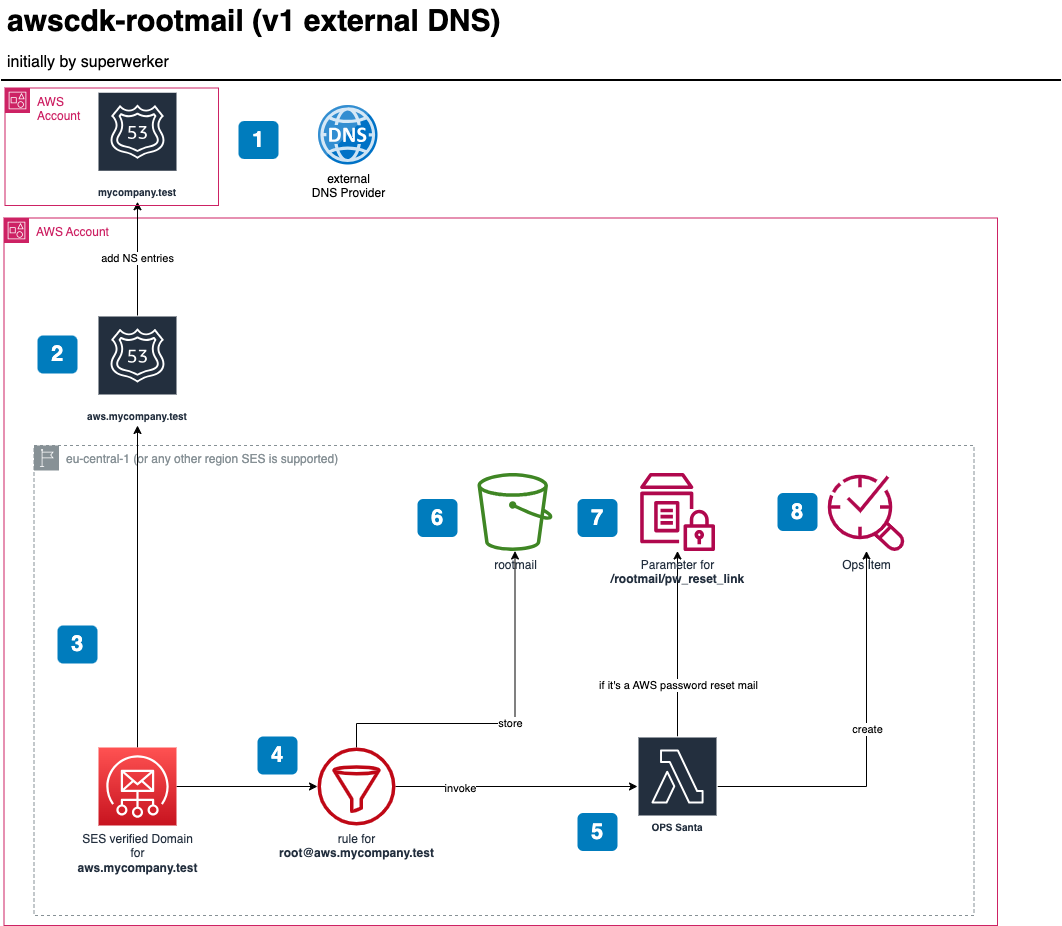
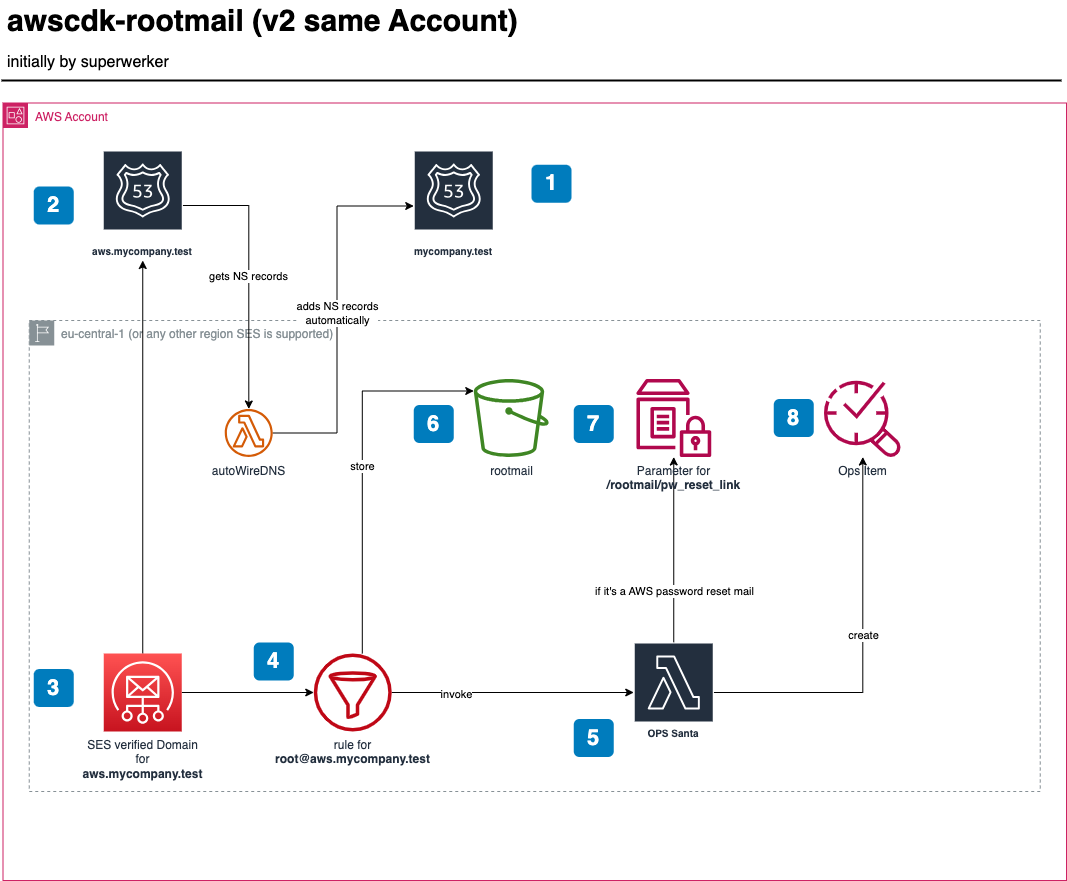
chore: simplify and correct readme

diff --git a/README.md b/README.md
@@ -20,10 +20,21 @@ Each AWS account needs one unique email address (the so-called "AWS account root
 
 Access to these email addresses must be adequately secured since they provide privileged access to AWS accounts, such as account deletion procedures.
 
-This is why you only need 1 mailing list for the AWS Management (formerly *root*) account, we recommend `aws-roots+<uuid>@mycompany.test` (**NOTE:** maximum 64 character are allowed for the whole address). And as you own the domain `mycompany.test` you can add a subdomain, e.g. `aws`, for which all EMails will then be received with this solution within this particular AWS Management account.
+This is why you only need 1 mailing list for the AWS Management (formerly *root*) account, we recommend `aws-roots+<uuid>@mycompany.test` 
+
+> [!NOTE]
+> The maximum 64 character are allowed for the whole address. 
+
+And as you own the domain `mycompany.test` you can add a subdomain, e.g. `aws`, for which all EMails will then be received with this solution within this particular AWS Management account.
 
 ## Prerequisites
-- Administrative access to an AWS account  
+Administrative access to an AWS account and the following tools:
+```sh
+brew install aws-cli node@18 esbuild # on Mac
+```
+
+<details>
+  <summary>Longer listing</summary>
 - Access to a development environment.  It is recommended to use AWS Cloud9 to avoid having to set up the tools needed to deploy the solution.  See [Getting started with AWS Cloud9](https://aws.amazon.com/cloud9/getting-started/).
 - Using Cloud9, all of the following have already been configured for you.  If you choose not to use Cloud9, you will need to install the following.
     - AWS CLI. See [Installing, updating and uninstalling the AWS CLI version 2](https://docs.aws.amazon.com/cli/latest/userguide/install-cliv2.html)
@@ -31,17 +42,18 @@ This is why you only need 1 mailing list for the AWS Management (formerly *root*
     - Node.js version 10.13.0 or later
     - AWS CDK version 2.90.0 or later. For installation instructions see [Getting Started with the AWS CDK](https://docs.aws.amazon.com/cdk/latest/guide/getting_started.html#getting_started_install)
     - Docker version 20.10.x or later **OR** [esbuild](https://esbuild.github.io/)
-
-```sh
-brew install aws-cli node@18 esbuild # on Mac
-```
+</details>
 
 ## Solution design: Version 1 - Domain in the same AWS account
-![rootmail-solution-diagram-v2](docs/img/awscdk-rootmail-v2-min.png)
+![rootmail-solution-diagram-v1](docs/img/awscdk-rootmail-v1-min.png)
 
 1. You own a domain, e.g., `mycompany.test`, registered via `Route53` in the **same** AWS account.
 2. The stack creates a `Route53` public Hosted Zone for the subdomain, e.g., `aws.mycompany.test`. It also automatically adds the TXT and CNAME records for verifying the domain towards SES **and** adds the NS server entries automatically to the main domain `mycompany.test`.
-3. When the subdomain `aws.mycompany.test` is successfully propagated, the stack creates a verified Domain in AWS SES and adds a recipient rule for `root@aws.mycompany.test`. **NOTE:** SES support alias, so mail to `root+random-string@aws.mycompany.test` will also be catched and forwared. On a successfull propagation you will get a mail as follows to the root Email address of the account you are installing the stack
+3. When the subdomain `aws.mycompany.test` is successfully propagated, the stack creates a verified Domain in AWS SES and adds a recipient rule for `root@aws.mycompany.test`. On a successfull propagation you will get a mail as follows to the root Email address of the account you are installing the stack
+
+> [!NOTE]
+> SES support alias, so mail to `root+random-string@aws.mycompany.test` will also be catched and forwared.
+
 ![domain-verification](docs/img/3-domain-verification-min.png)
 1. Now, any mail going to `root+<any-string>@aws.mycompany.test` will be processed by OpsSanta 🎅🏽 Lambda function and also stored in the rootmail S3 bucket 🪣.
 2. The OpsSanta function verifies the verdicts (DKIM etc.) of the sender, also skips AWS Account welcome EMails, and processes all other EMails. If it is a password reset link EMail it stores the link in the parameter store (and does *not* create an OpsItem for now). For all other mails, which are not skipped an OpsItem is created to have a central location for all items. Note: you can also connect your Jira to the OpsCenter.
@@ -69,8 +81,6 @@ export class MyStack extends Stack {
 
     const rootmail = new Rootmail(this, 'rootmail-stack', {
       domain: 'mycompany.test'; // a domain you need to own,
-      subdomain: 'aws'; // subdomain which will be created,
-      autowireDNSOnAWSParentHostedZoneId: 'Z09999999TESTE1A2B3C4D', // the Hosted Zone Id of the parent domain, e.g. mycompany.test
       env: {
         region: 'eu-west-1', // or any region SES is available
       },
@@ -80,7 +90,6 @@ export class MyStack extends Stack {
 ```
 2. run on your commandline
 ```sh
-docker ps # need to be running to build lambdas with esbuild
 npm run deploy
 ```
 1. No need to do anything, the NS records are **automatically** propagated as the parent Hosted Zone is in the same account!
@@ -90,7 +99,10 @@ npm run deploy
 Nothing to do, the verification is done automatically.
 
 ## Solution design: Version 2 - external DNS provider
-![rootmail-solution-diagram-v1](docs/img/awscdk-rootmail-v1-min.png)
+<details>
+  <summary>open for details</summary>
+
+![rootmail-solution-diagram-v2](docs/img/awscdk-rootmail-v2-min.png)
 
 1. You own a domain, e.g., `mycompany.test`. It can be at any registrar such as `godaddy`, also `Route53` itself in another AWS account.
 2. The stack creates a `Route53` public Hosted Zone for the subdomain, e.g., `aws.mycompany.test`. It also automatically adds the TXT and CNAME records (for DKIM etc.) for verifying the domain towards SES. **NOTE:** You must now add the NS server entries into the Domain provider which owns the main domain `mycompany.test`. 
@@ -147,6 +159,8 @@ ns-33.your-dns-provider-04.com.
 ns-444.your-dns-provider-12.net.
 ```
 and also by sending an EMail, e.g. from Gmail to `root@aws.mycompany.test`
+
+</details>
 
 ## Uninstall
 1. Delete the stack, the custom resources will delete most resources
